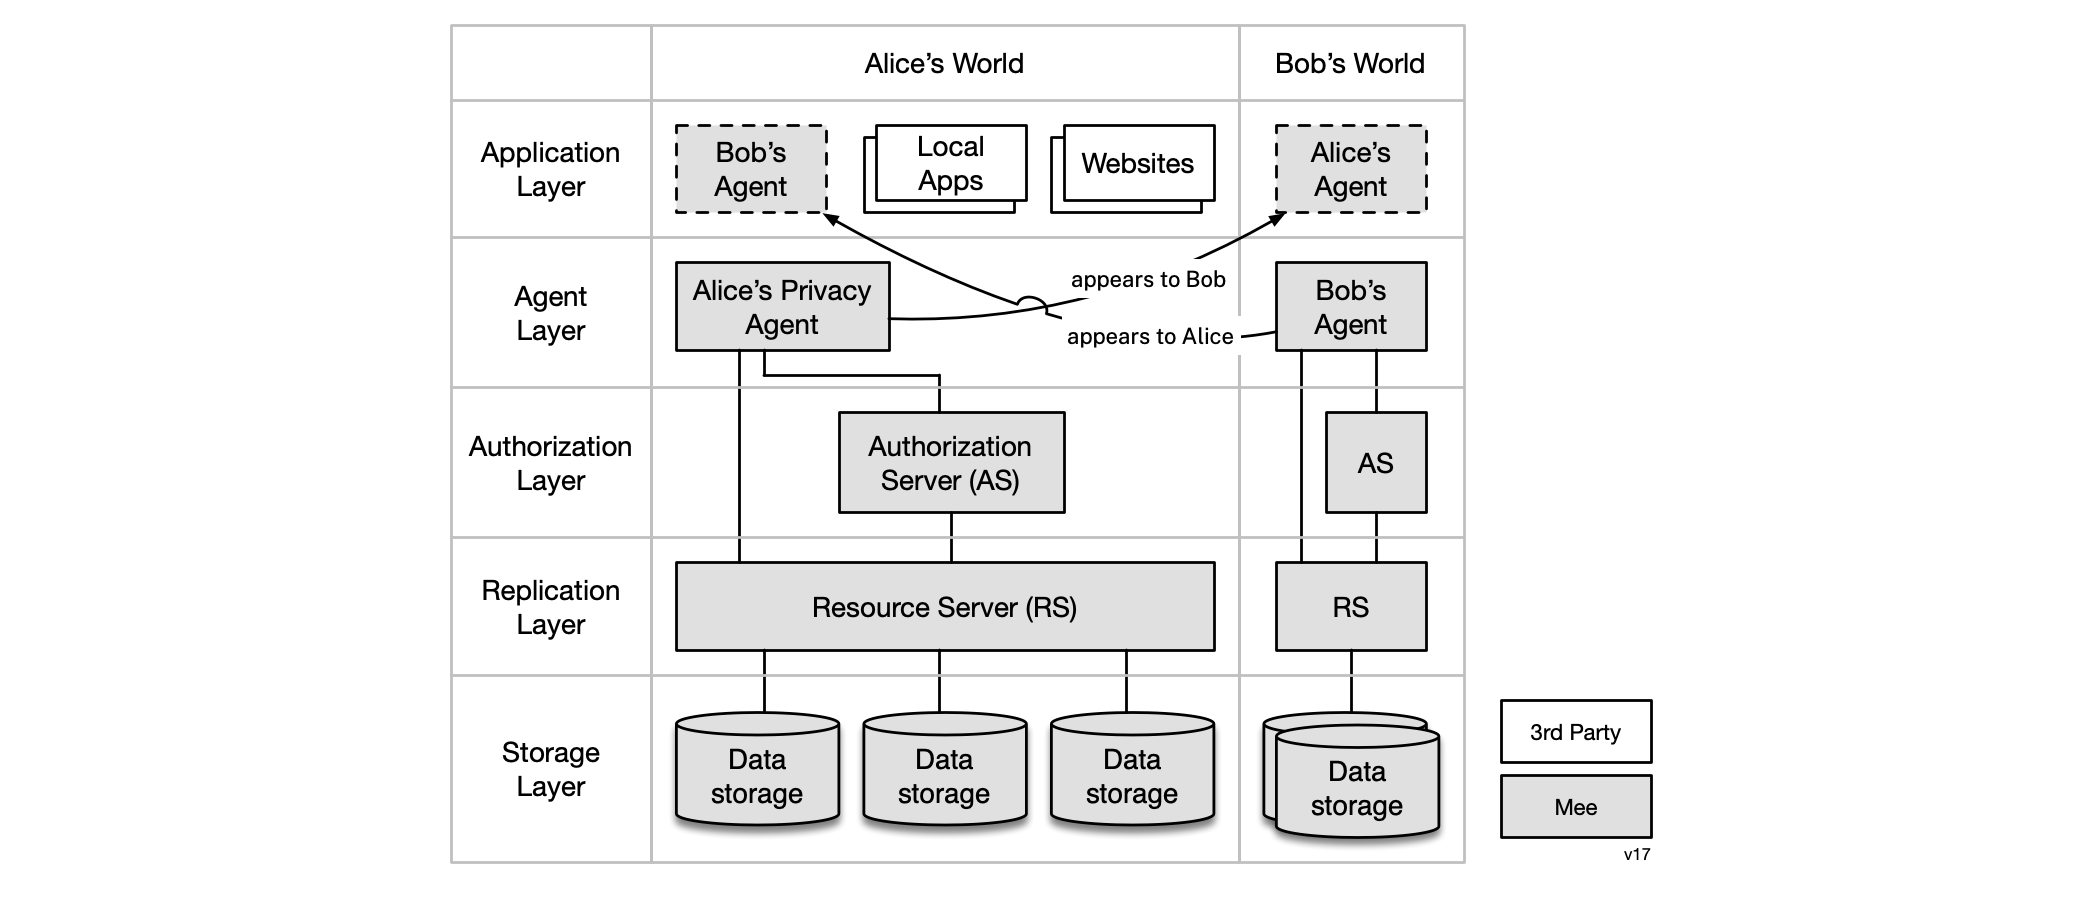
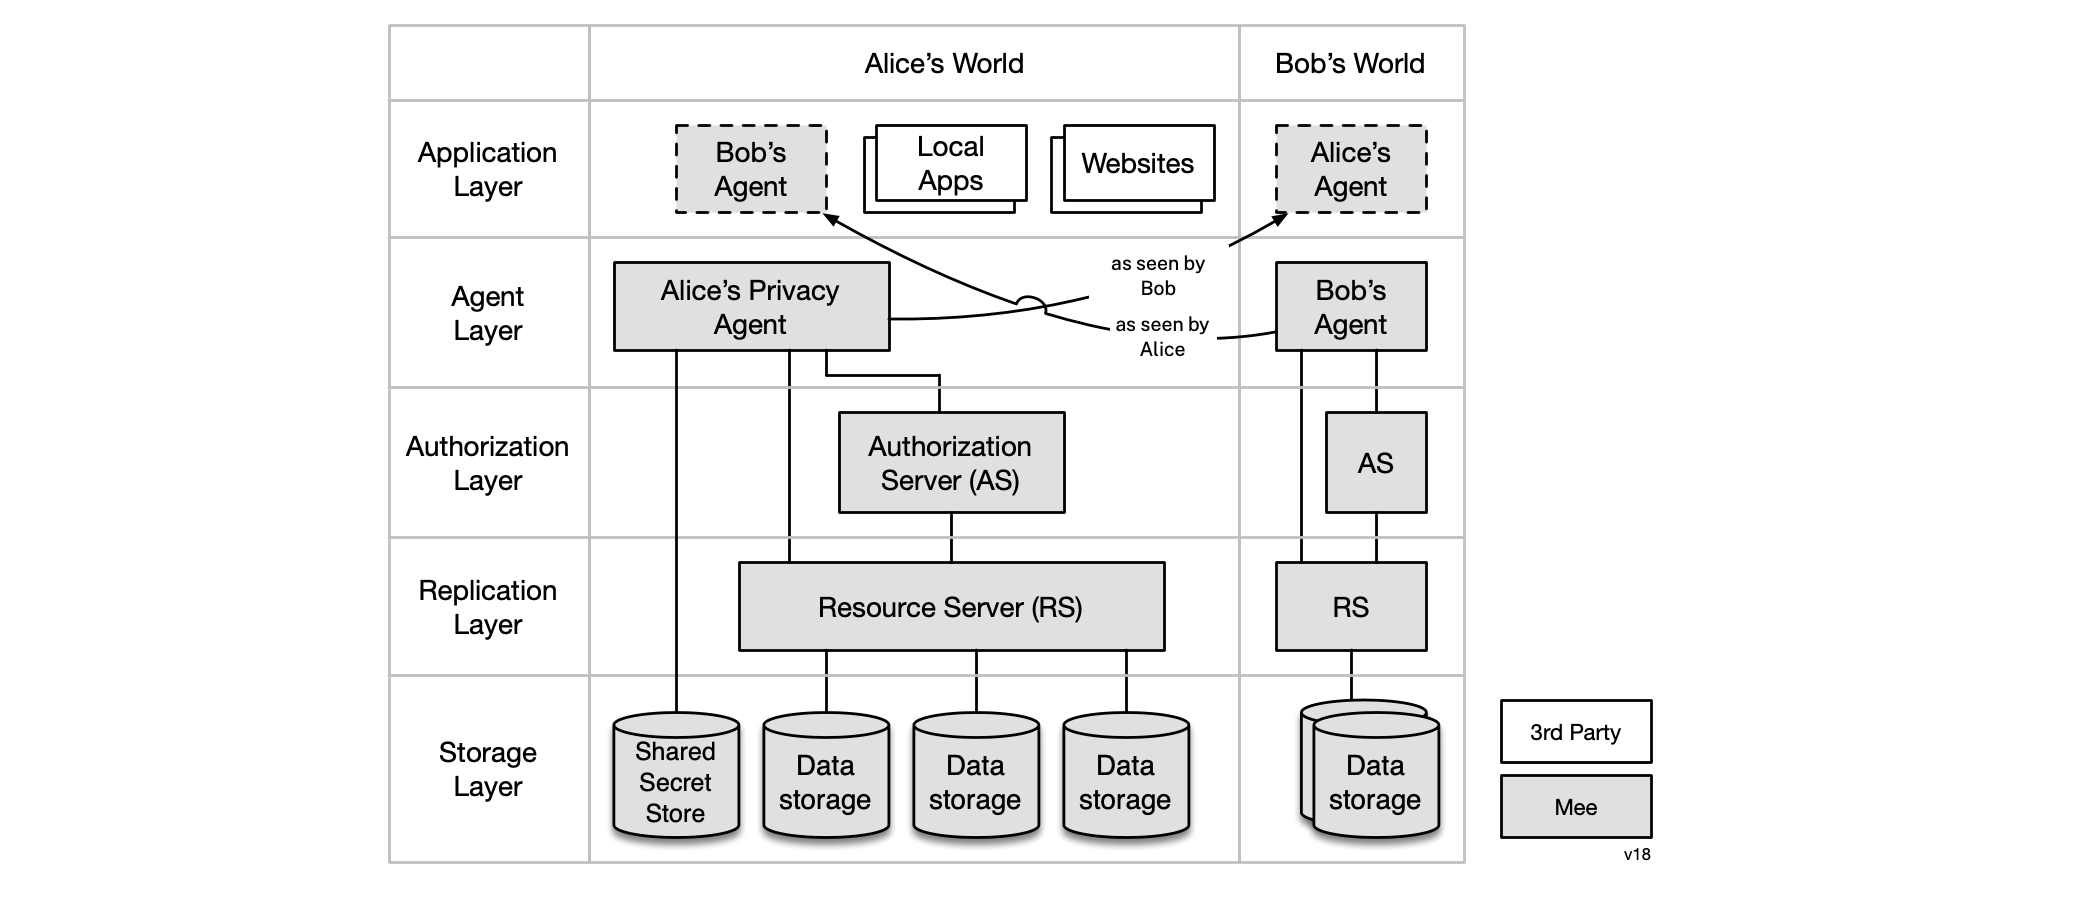
added SSS

diff --git a/Concepts.md b/Concepts.md
@@ -29,12 +29,29 @@ We can illustrate all of these concepts with a simple example. A user might have
 
 ### Privacy Agent
 
-A privacy agent is an end-user app that, on behalf of the user collects, organizes, manages and shares their personal data with others. An agent can request access to portions of another user's data or, conversely, grant a request to portions of their own data. The agent provides a user interface to support these functions but the data being accessed may or not be co-located on the same device or computer. Here is an overview of the main agent functions:
+A privacy agent as we envision it is a minimalist, occasional use, “administrative” application designed to handle administrative tasks related to managing the user’s personal data. It preserves the user's privacy when they are interacting with Mee-compatible apps and websites that have licensed the user's data according to the terms of the Mee Human Information License. 
+
+An agent can request access to portions of another user's data or, conversely, grant a request to portions of their own data. The agent provides a user interface to support management of the user's personal data which is typically, although not necessarily exclusively co-located on the device running the agent. 
+
+Here is an overview of the functionality planned for MVP1:
 
 - Authenticate the user (e.g. via facial recognition, etc.)
+- SIOP identity provider
+
+MVP2 functionality:
+
 - Allow the user to review, and in some cases edit, their personal data
 - Request access to data from another person or grant/authorize a request from another person to data
-- Manage the storage (including backup and recovery) of the user's data and replicate it across the user's devices
+- Manage the storage (including backup and restoration) of the user's data and replicate it across the user's devices
+- Generates crtypographic keys and key-pairs to encrypt data and digitally sign documents
+- Create and hold a Secret Recovery Phrase (SRP) that is used as entropy for key generation.
+- For disaster recovery purposes the agent supports sharding the SRP and storing it with friends and secure locations. It also supports recovery of the agent's state by recovering a subset of these shards. 
+- Verifiable Credential wallet functions
+
+MVP3:
+
+- Password manager
+- Maintains backups of all personal data and related agent state
 
 ### Architecture
 
@@ -42,7 +59,11 @@ The Mee architecture shown below supports the privacy agent and its interactions
 
 ![architecture](./images/architecture.png)
 
+An agent is configured with a Secret Recovery Phrase (SRP) created by the user, and never shared. For disaster recovery purposes the user is encouraged to divide the SRP into encrypted fragments according to Shamir's [How to share a secret](https://dl.acm.org/doi/10.1145/359168.359176). The agent presents the user with a choice of options for where to store these fragments including with friends, in files and optionally in a Shared Secret Store shown in the lower left above hosted by a service provider the user trusts.
 
+### Apps
+
+As mentioned, the privacy agent is designed to stay out of the way of the user's main interactions with Mee-compatible apps and digital services. Operating mostly in the background, it shares human information about the user with apps according to the user's information sharing preferences. This information can be used for many purposes from simplifying sign-in/sign-up, to providing contact information, payment methods, as well as preferences, interests, etc. with which apps can provide personalization, recommendations, and tailored offers. 
 
 ### Framework classes
 
